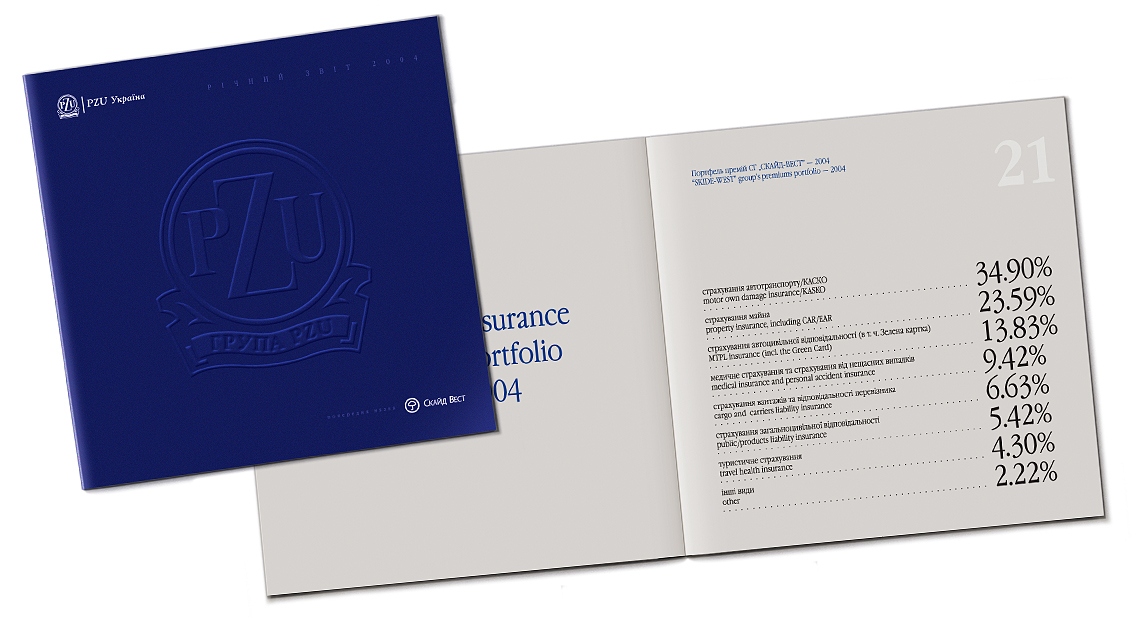
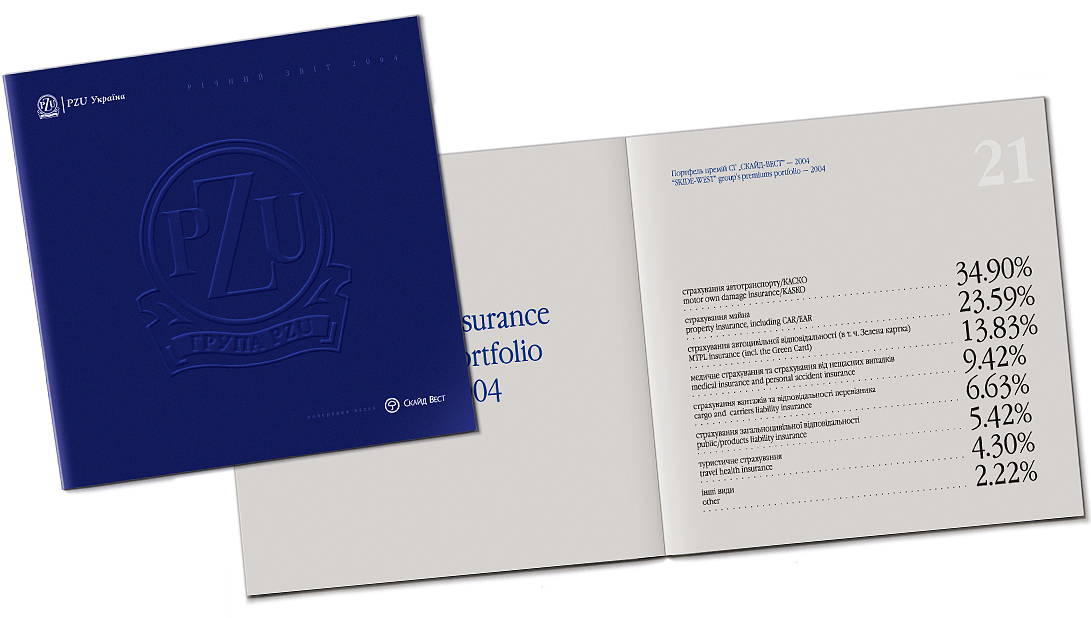
comit19.1.20

diff --git a/works.html b/works.html
@@ -50,7 +50,7 @@
       <p>&nbsp;</p>
       <p>&nbsp;</p>
       <p>&nbsp;</p>
-      <p><span class="ptext">Design TM &ldquo;Diva Oliva&rdquo; Bella di cerignola green olives in brine.</span> </p></td>
+      <p><span class="ptext">Design, Diva Oliva Bella di cerignola green olives in brine.</span> </p></td>
     <td width="2%" align="left" valign="top">&nbsp;</td>
     <td align="center" valign="middle"><p>&nbsp;</p>
       <p><img src="../vrfdesign.github.io/DivaOliva/DO_green.jpg" alt="" width="526" height="488"></p>
@@ -73,7 +73,7 @@
       <p>&nbsp;</p>
       <p>&nbsp;</p>
       <p>&nbsp;</p>
-      <p><span class="ptext"><span lang="en"><span title="">Label design</span></span>, TM &ldquo;Diva Oliva&rdquo; GOLD, green olives, black olives, kalamata olives.</span></p></td>
+      <p><span class="ptext"><span lang="en"><span title="">Label design</span></span>, Diva Oliva GOLD, green olives, black olives, kalamata olives.</span></p></td>
     <td width="2%" align="left" valign="top">&nbsp;</td>
     <td align="center" valign="middle"><p>&nbsp;</p>
       <p><img src="../vrfdesign.github.io/DivaOliva/do_gold.jpg" width="633" height="504"></p>
@@ -92,7 +92,7 @@
     <td width="4%" height="10" rowspan="2">&nbsp;</td>
     <td height="219" colspan="2" align="center" valign="middle"><p>
       <!DOCTYPE HTML PUBLIC "-//W3C//DTD HTML 4.0 Transitional//EN">
-      <!--  		@page { margin: 2cm }  		p { margin-bottom: 0.25cm; line-height: 120% }  	--><img src="../vrfdesign.github.io/pzu/pzu_annual_report.jpg" width="1135" height="618"></p></td>
+    <!--  		@page { margin: 2cm }  		p { margin-bottom: 0.25cm; line-height: 120% }  	--><img src="pzu/pzu_annual_report.jpg" width="1091" height="618"></p></td>
     <td width="4%" rowspan="2">&nbsp;</td>
   </tr>
   <tr>
@@ -110,7 +110,7 @@
       <p>&nbsp;</p>
       <p>&nbsp;</p>
       <p>&nbsp;</p>
-      <p><span class="ptext"><span lang="en"><span title="">Label design</span></span>,  il Paesano olive oil TM &ldquo;Diva Oliva&rdquo;</span>.<br>
+      <p><span class="ptext"><span lang="en"><span title="">Label design</span></span>,  il Paesano olive oil Diva Oliva</span>.<br>
         <span class="ptext">Traditional freshly squeezed, unfiltered Extra Virgin Olive Oil.</span><br>
       </p></td>
     <td width="2%" align="left" valign="top">&nbsp;</td>
@@ -137,7 +137,7 @@
       <p>&nbsp;</p>
       <p class="ptext">&nbsp;</p>
       <p class="ptext">&nbsp;</p>
-      <p class="ptext"><span lang="en"><span title="">Package design</span></span> Tuna chunk in brine TM &ldquo;San Eduardo&ldquo;.</p></td>
+      <p class="ptext"><span lang="en"><span title="">Package design</span></span> Tuna chunk in brine San Eduardo.</p></td>
     <td width="2%" align="left" valign="top">&nbsp;</td>
     <td align="center" valign="middle"><p>&nbsp;</p>
       <p>&nbsp;</p>
@@ -163,7 +163,7 @@
       <p>&nbsp;</p>
       <p>&nbsp;</p>
       <p class="ptext">&nbsp;</p>
-      <p class="ptext"><span class="ptext"><span lang="en"><span title="">Label and brand design</span></span> TM &ldquo;Mr. Oldo&ldquo; jams</span>. Raspberry, cherry, currant jams.</p></td>
+      <p class="ptext"><span class="ptext"><span lang="en"><span title="">Label and brand design</span></span> Mr. Oldo jams</span>. Raspberry, cherry, currant jams.</p></td>
     <td width="1%" align="left" valign="top">&nbsp;</td>
     <td width="51%" align="center" valign="middle"><p>&nbsp;</p>
       <p>&nbsp;</p>
@@ -218,7 +218,7 @@
       <p class="ptext">&nbsp;</p>
       <p class="ptext">&nbsp;</p>
       <p class="ptext">&nbsp;</p>
-    <p class="ptext"><span lang="en"><span title="">Design</span></span> TM &ldquo;Amrita&ldquo; Health care and beauty production.</p></td>
+    <p class="ptext"><span lang="en"><span title="">Design</span></span> Amrita Health care and beauty production.</p></td>
     <td width="2%" align="left" valign="top">&nbsp;</td>
     <td align="center" valign="middle"><p>&nbsp;</p>
       <p>&nbsp;</p>
@@ -248,7 +248,7 @@
       <p class="ptext">&nbsp;</p>
       <p class="ptext">&nbsp;</p>
       <p class="ptext">&nbsp;</p>
-      <p class="ptext"><span lang="en"><span title="">Design</span></span> TM &ldquo;Tropic life&ldquo; pouch design, mango sliced in syrup.</p></td>
+      <p class="ptext"><span lang="en"><span title="">Design</span></span> Tropic life pouch design, mango sliced in syrup.</p></td>
     <td width="2%" align="left" valign="top">&nbsp;</td>
     <td align="center" valign="middle"><p><img src="tropic_life/tropic_life.jpg" width="580" height="539"></p>
       <p>&nbsp;</p>
@@ -276,7 +276,7 @@
       <p class="ptext">&nbsp;</p>
       <p class="ptext">&nbsp;</p>
       <p class="ptext">&nbsp;</p>
-      <p class="ptext"><span lang="en"><span title="">Design</span></span> TM &ldquo;Diva Oliva&ldquo;  Extra Virgin Olive Oil Bio.</p></td>
+      <p class="ptext"><span lang="en"><span title="">Design</span></span> Diva Oliva  Extra Virgin Olive Oil Bio.</p></td>
     <td width="2%" align="left" valign="top">&nbsp;</td>
     <td align="center" valign="middle"><p><img src="DivaOliva/diva_bio_clas.jpg" width="474" height="676"></p>
     <p>&nbsp;</p></td>
@@ -331,7 +331,7 @@
       <p class="ptext">&nbsp;</p>
       <p class="ptext">&nbsp;</p>
       <p class="ptext">&nbsp;</p>
-      <p class="ptext"><span lang="en"><span title="">Label and brand design TM &ldquo;Mr. Oldo&ldquo;. Canned vegetables. Gherkins marinated selected, cherry tomatoes marinated, mix gherkins and tomatoes marinated, green peas selected, silverskin onions marinated.</span></span></p></td>
+      <p class="ptext"><span lang="en"><span title="">Label and brand design Mr. Oldo. Canned vegetables. Gherkins marinated selected, cherry tomatoes marinated, mix gherkins and tomatoes marinated, green peas selected, silverskin onions marinated.</span></span></p></td>
     <td width="2%" align="left" valign="top">&nbsp;</td>
     <td align="center" valign="middle"><p>&nbsp;</p>
       <p>&nbsp;</p>
@@ -352,7 +352,7 @@
 <table width="100%" height="92" border="0">
   <tr>
     <td width="4%" height="88" align="center" valign="middle">&nbsp;</td>
-    <td width="92%" align="right" valign="middle" class="ptext">A r c h i v e</td>
+    <td width="92%" align="right" valign="middle" class="ptext">&nbsp;</td>
     <td width="4%" align="center" valign="middle">&nbsp;</td>
   </tr>
 </table>
